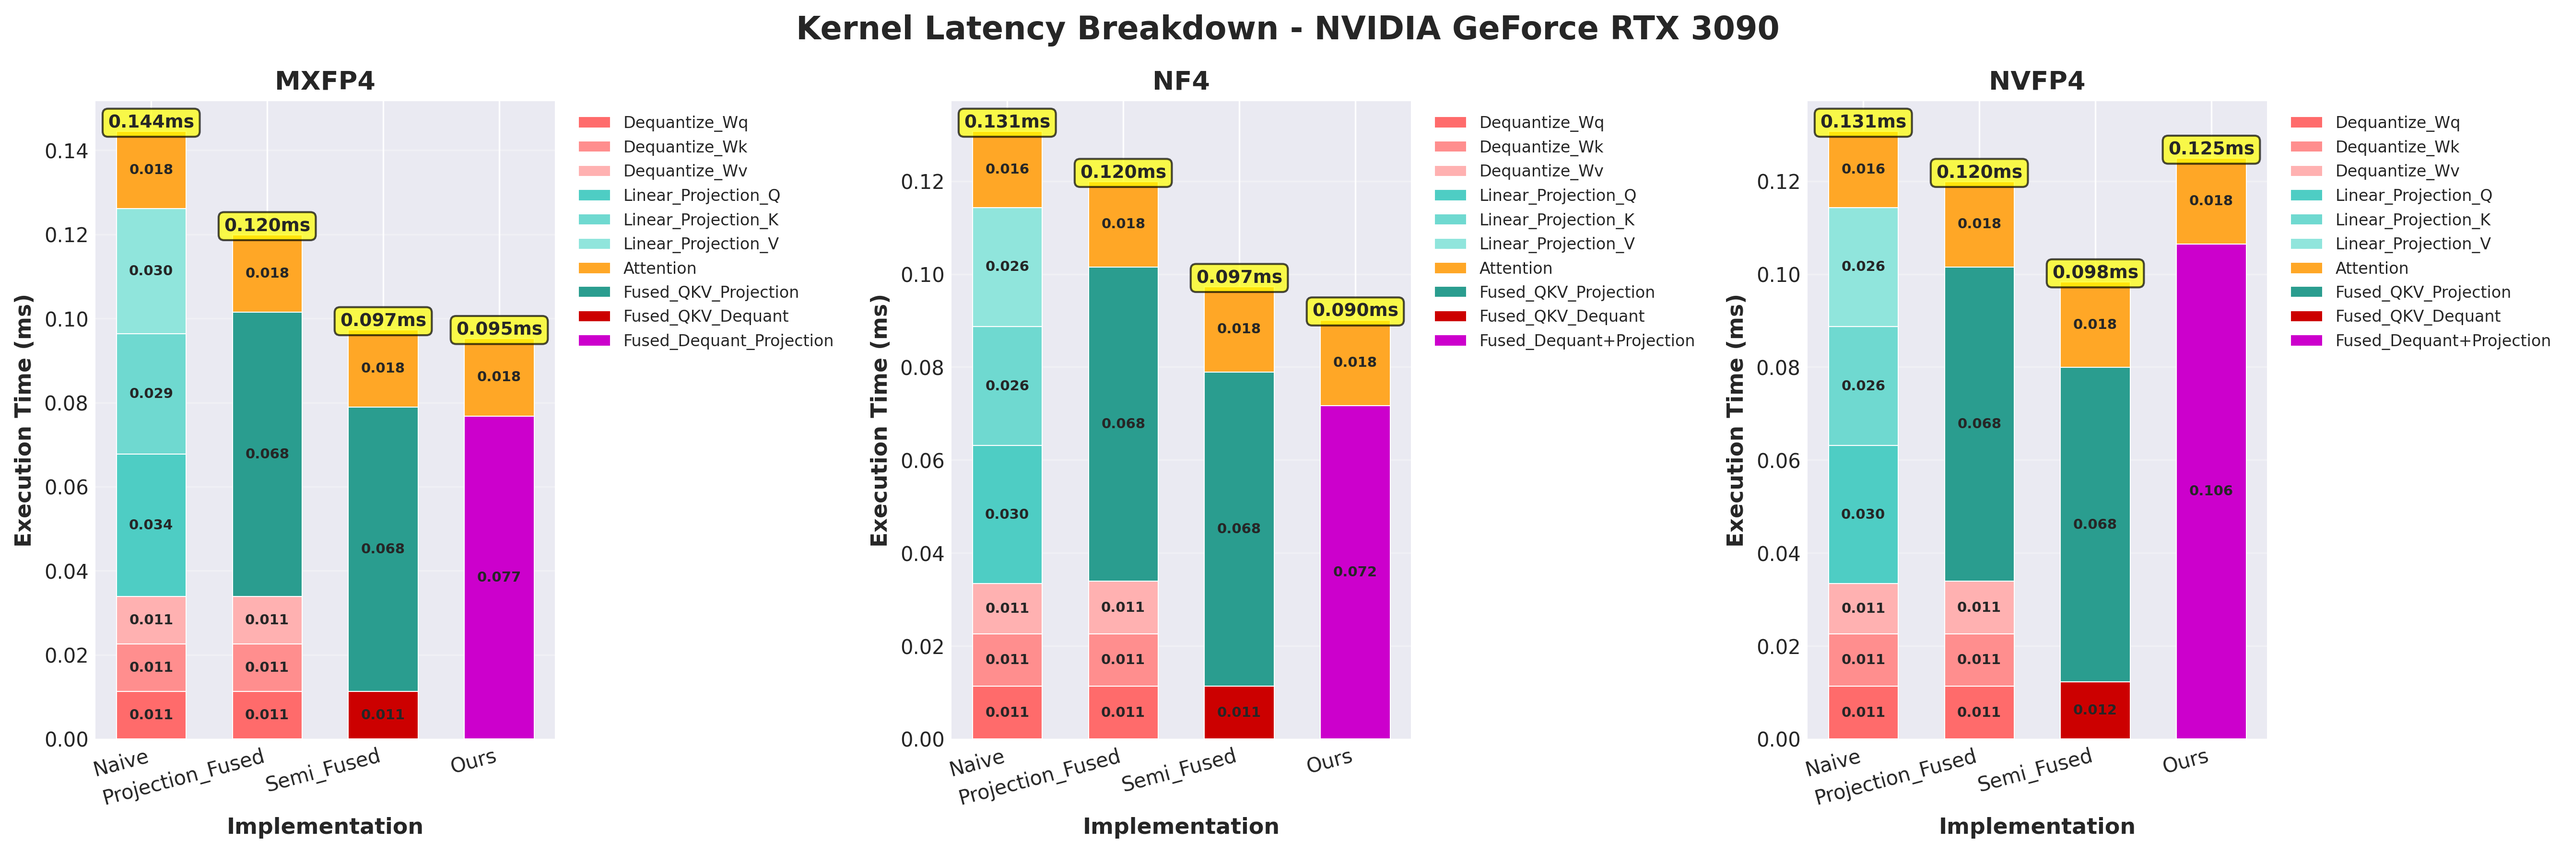
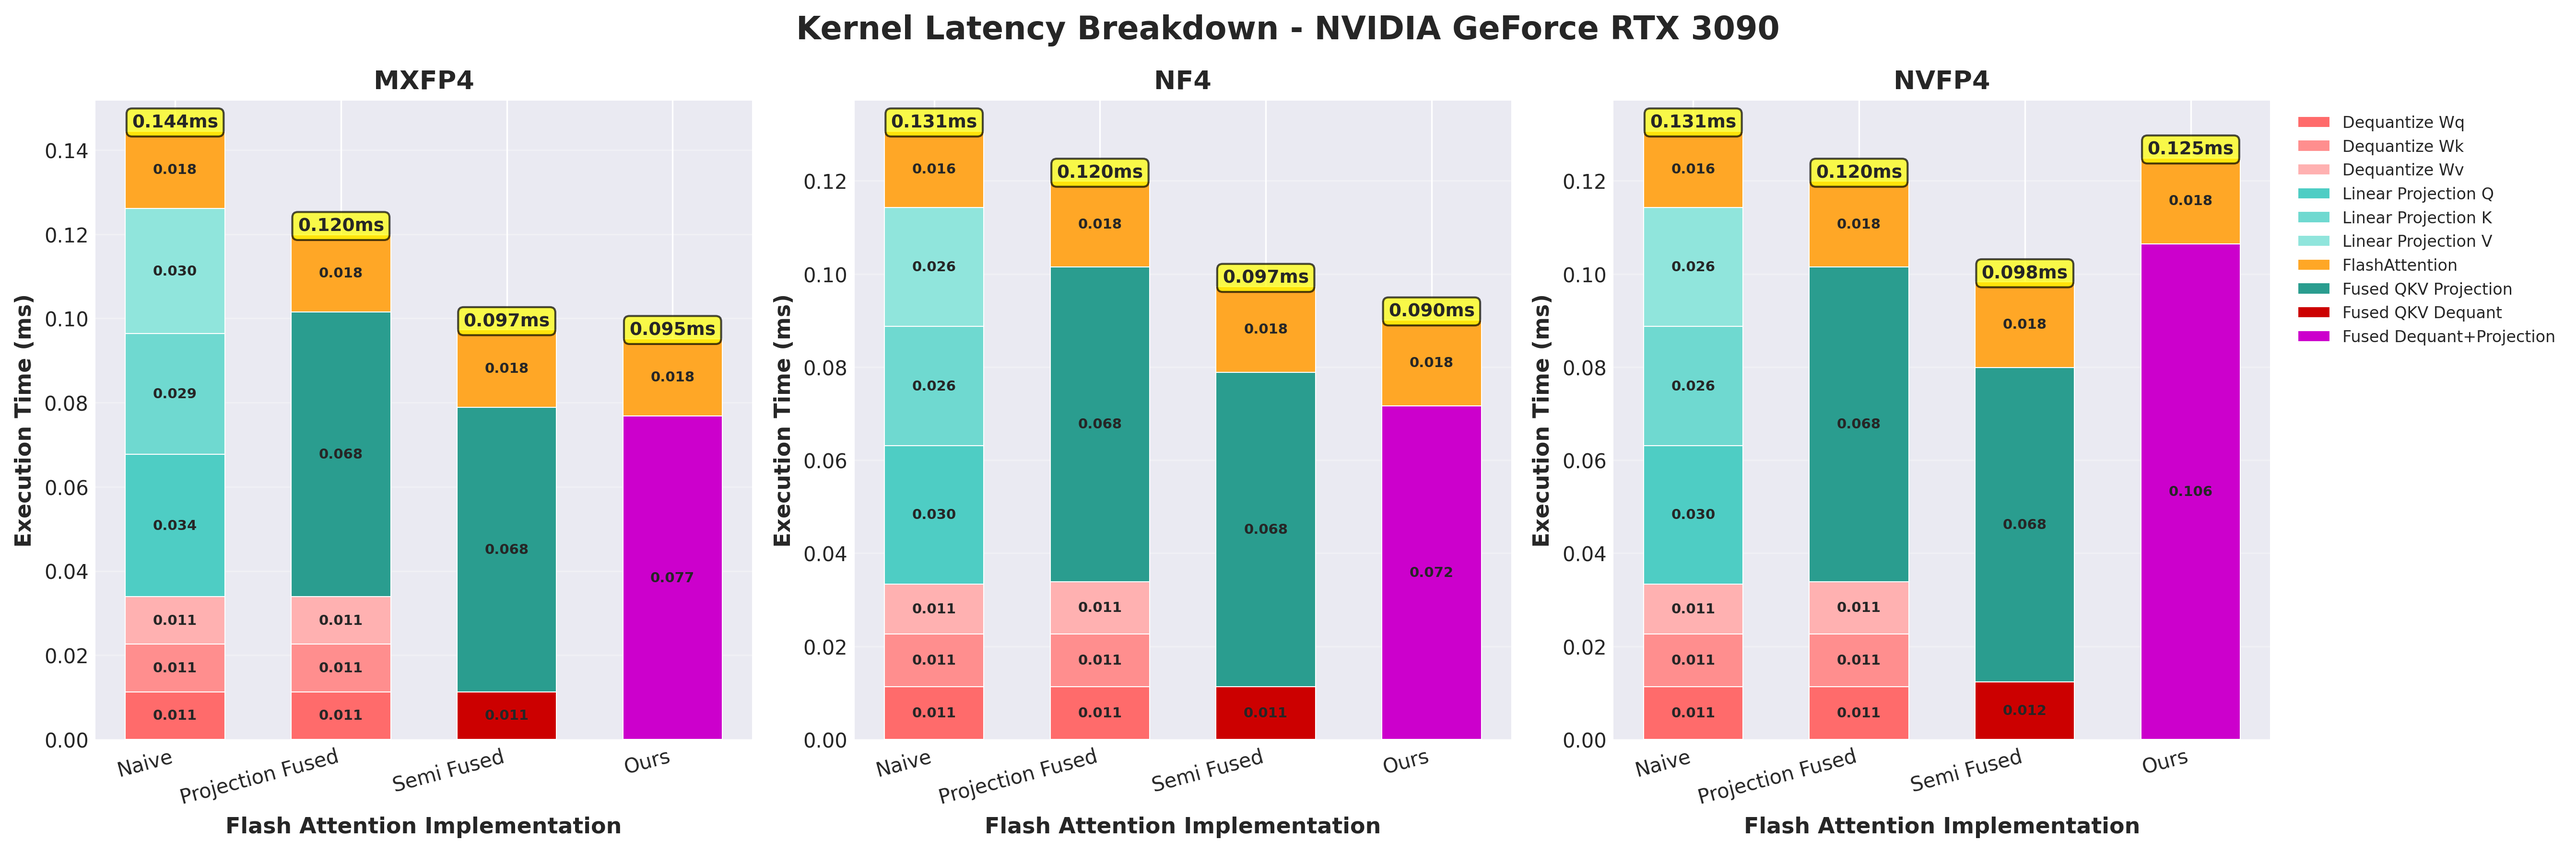
Add performance comparison visualization for latency breakdown

diff --git a/visualize_results.py b/visualize_results.py
@@ -20,6 +20,9 @@ def visualize_latency_breakdown(csv_path):
     else:
         gpu_name = "Unknown GPU"
     
+    # First, generate performance comparison graph
+    visualize_performance_from_latency(df, csv_path, gpu_name)
+    
     # Get unique quantization types and implementations
     quant_types = df['Quantization'].unique()
     
@@ -49,7 +52,7 @@ def visualize_latency_breakdown(csv_path):
             kernel_lower = kernel_name.lower().replace(' ', '_')
             # Normalize attention kernel names
             if 'attention' in kernel_lower or 'flash' in kernel_lower:
-                return 'Attention'
+                return 'FlashAttention'
             # Normalize other common variations
             kernel_name = kernel_name.replace(' ', '_')
             return kernel_name
@@ -149,12 +152,16 @@ def visualize_latency_breakdown(csv_path):
                    ha='center', va='bottom', fontsize=9, fontweight='bold',
                    bbox=dict(boxstyle='round,pad=0.3', facecolor='yellow', alpha=0.7))
         
-        ax.set_xlabel('Implementation', fontsize=11, fontweight='bold')
+        ax.set_xlabel('Flash Attention Implementation', fontsize=11, fontweight='bold')
         ax.set_ylabel('Execution Time (ms)', fontsize=11, fontweight='bold')
         ax.set_title(f'{quant_type}', fontsize=13, fontweight='bold')
         ax.set_xticks(x_pos)
-        ax.set_xticklabels(implementations, rotation=15, ha='right')
-        ax.legend(all_patches, all_labels, loc='upper left', fontsize=8, bbox_to_anchor=(1.02, 1))
+        # Replace underscores with spaces in x-axis labels
+        ax.set_xticklabels([impl.replace('_', ' ') for impl in implementations], rotation=15, ha='right')
+        # Replace underscores with spaces in legend labels - only show on rightmost subplot
+        if idx == n_quants - 1:
+            all_labels_display = [label.replace('_', ' ') for label in all_labels]
+            ax.legend(all_patches, all_labels_display, loc='upper left', fontsize=8, bbox_to_anchor=(1.02, 1))
         ax.grid(axis='y', alpha=0.3)
     
     plt.tight_layout()
@@ -165,6 +172,92 @@ def visualize_latency_breakdown(csv_path):
     print(f"Visualization saved to: {output_path}")
     
     # Show plot
+    plt.show()
+
+def visualize_performance_from_latency(df, csv_path, gpu_name):
+    """Generate performance comparison graph from latency breakdown data"""
+    
+    # Calculate total time per implementation and quantization type
+    perf_data = df.groupby(['Quantization', 'Implementation'])['Time_ms'].sum().reset_index()
+    
+    # Pivot to get implementations as rows and quantization types as columns
+    perf_pivot = perf_data.pivot(index='Implementation', columns='Quantization', values='Time_ms')
+    
+    # Preserve original order from CSV
+    implementations = df['Implementation'].unique()
+    quant_types = df['Quantization'].unique()
+    
+    # Reindex to maintain original order
+    perf_pivot = perf_pivot.reindex(index=implementations, columns=quant_types)
+    
+    # Set up the plot style
+    plt.style.use('seaborn-v0_8-darkgrid')
+    colors = plt.cm.tab10(np.linspace(0, 1, 10))
+    
+    # Create figure
+    fig, ax = plt.subplots(1, 1, figsize=(12, 6))
+    fig.suptitle(f'Performance Comparison - {gpu_name}', 
+                 fontsize=16, fontweight='bold')
+    
+    width = 0.8 / len(implementations)
+    
+    # Get baseline (first implementation) times for speedup calculation
+    baseline_times = perf_pivot.iloc[0].values
+    
+    # Grouped bar chart
+    for i, impl in enumerate(implementations):
+        values = perf_pivot.loc[impl].values
+        x_pos = np.arange(len(quant_types)) + i * width
+        # Add " Flash Attention" to legend label
+        label_text = f"{impl.replace('_', ' ')} Flash Attention" if impl != "Ours" else impl
+        bars = ax.bar(x_pos, values, width, label=label_text, color=colors[i])
+        
+        # Add value labels and speedup on bars
+        for j, (bar, val) in enumerate(zip(bars, values)):
+            if not np.isnan(val):
+                height = bar.get_height()
+                
+                # Show speedup (except for first baseline)
+                if i > 0 and not np.isnan(baseline_times[j]):
+                    speedup = baseline_times[j] / val
+                    # label_text = f'{speedup:.2f}×\n{val:.3f}ms'
+                    label_text = f'{val:.3f}ms'
+                    text_color = 'black'
+                    # text_color = 'darkgreen' if speedup > 1 else 'darkred'
+                else:
+                    # Just show execution time for baseline
+                    label_text = f'{val:.3f}ms'
+                    text_color = 'black'
+                
+                ax.text(bar.get_x() + bar.get_width()/2., height,
+                        label_text,
+                        ha='center', va='bottom', fontsize=8, fontweight='bold',
+                        linespacing=0.8, color=text_color)
+    
+    ax.set_xlabel('Quantization Type', fontsize=12, fontweight='bold')
+    ax.set_ylabel('Total Execution Time (ms)', fontsize=12, fontweight='bold')
+    ax.set_title('Total Execution Time by Quantization Type', fontsize=14, fontweight='bold')
+    ax.set_xticks(np.arange(len(quant_types)) + width * (len(implementations) - 1) / 2)
+    ax.set_xticklabels(quant_types)
+    ax.grid(axis='y', alpha=0.3)
+    
+    # Increase y-axis limit to make room for legend
+    y_max = ax.get_ylim()[1]
+    ax.set_ylim(0, y_max * 1.15)
+    
+    legend = ax.legend(loc='upper right', fontsize=10, frameon=True, fancybox=True, shadow=True)
+    legend.get_frame().set_facecolor('white')
+    legend.get_frame().set_alpha(0.95)
+    legend.get_frame().set_edgecolor('gray')
+    legend.set_zorder(100)
+    
+    plt.tight_layout()
+    
+    # Save figure
+    output_path = csv_path.replace('latency_breakdown_', 'performance_').replace('.csv', '.png')
+    plt.savefig(output_path, dpi=300, bbox_inches='tight')
+    print(f"Performance graph saved to: {output_path}")
+    
     plt.show()
 
 def visualize_performance(csv_path):
